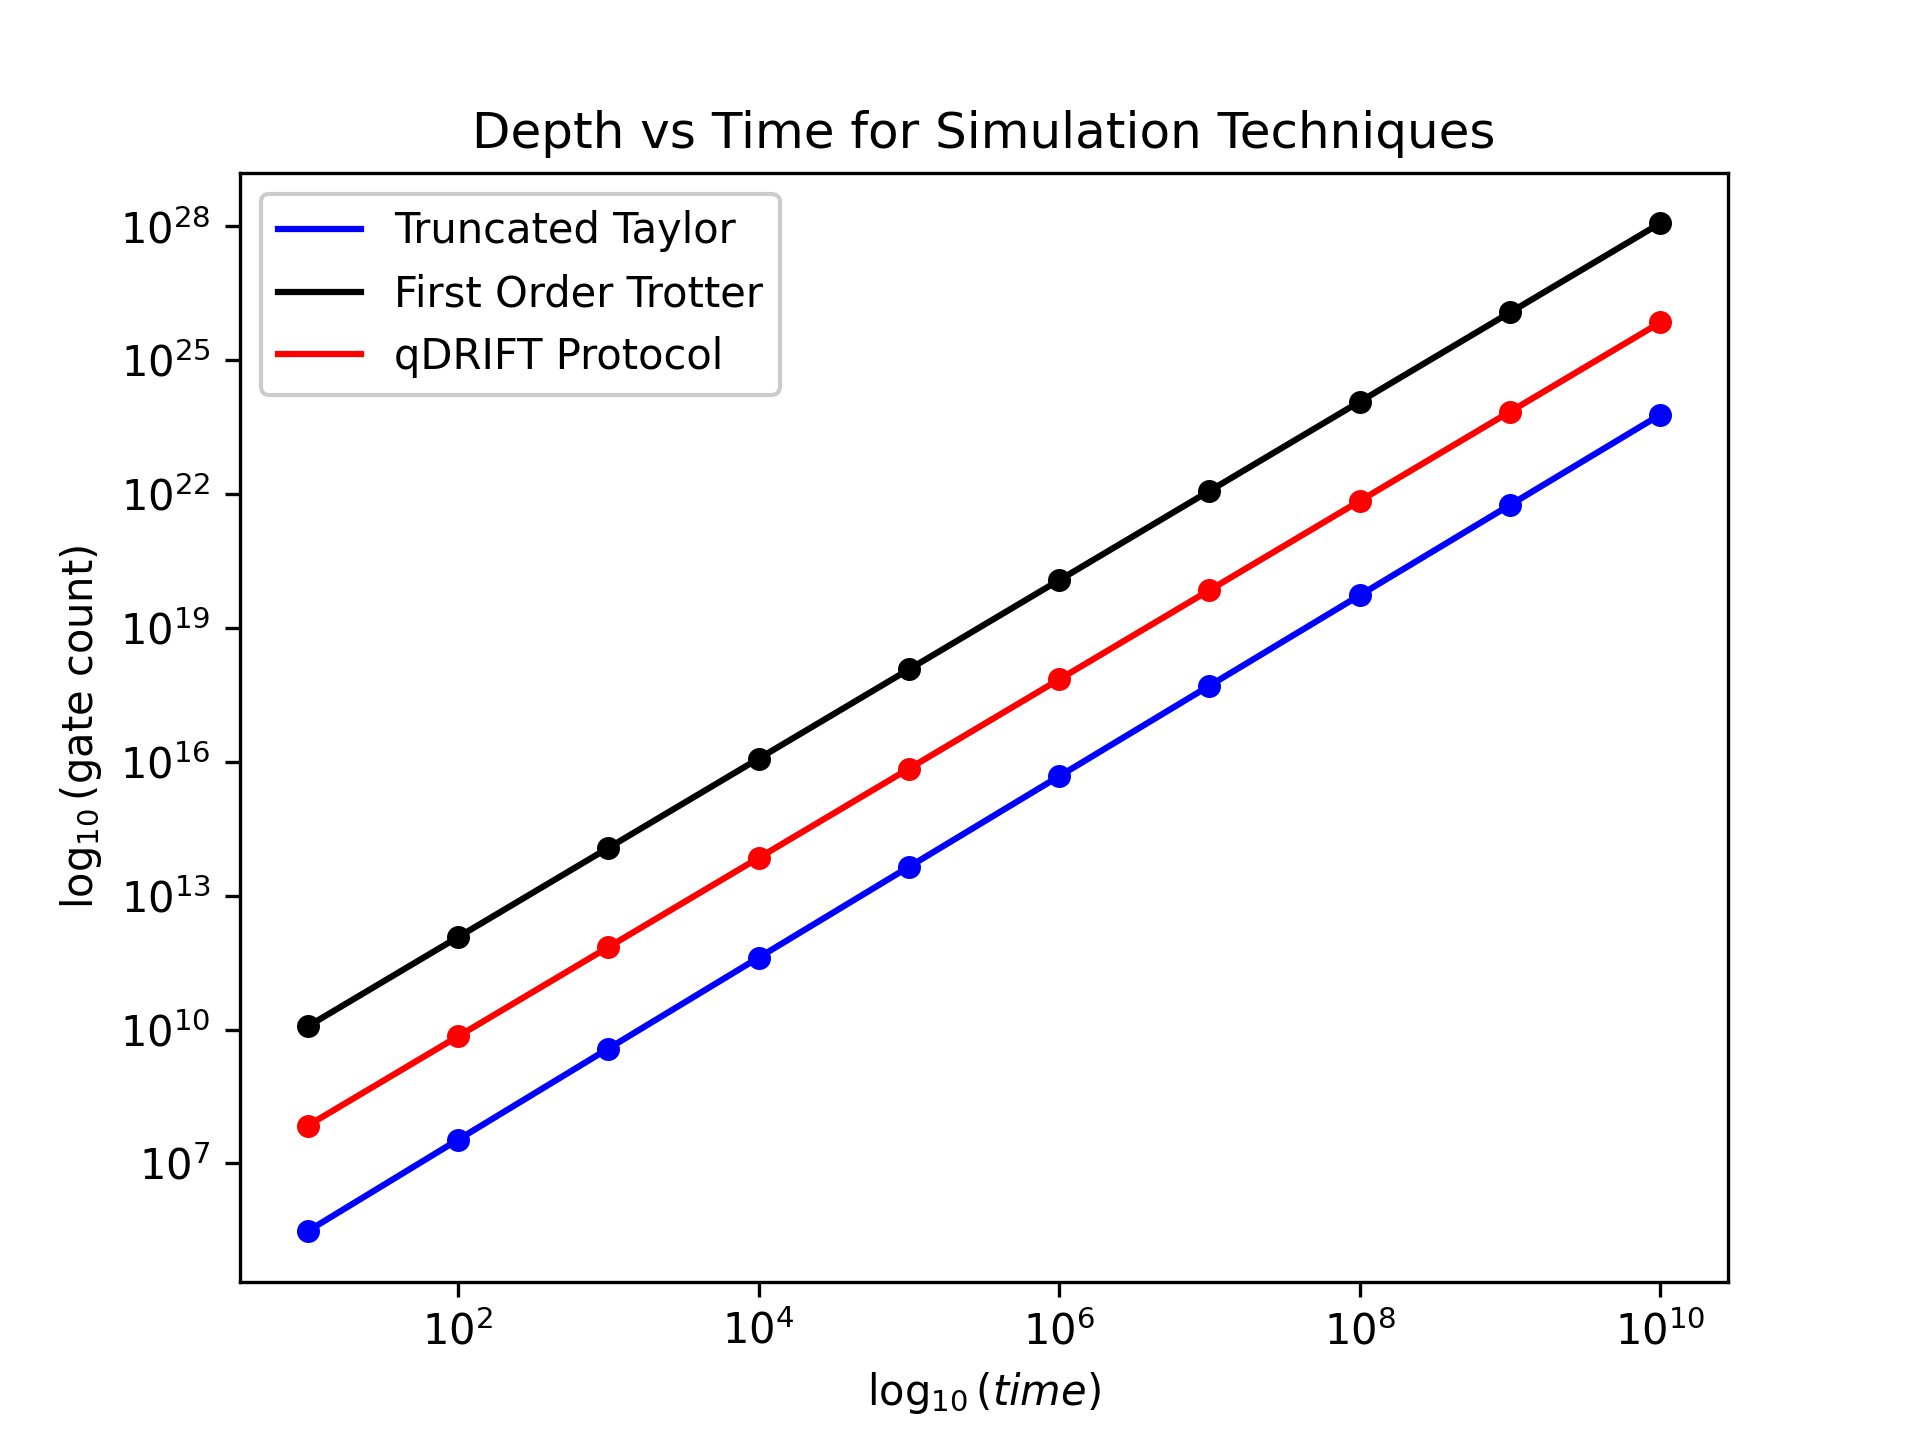
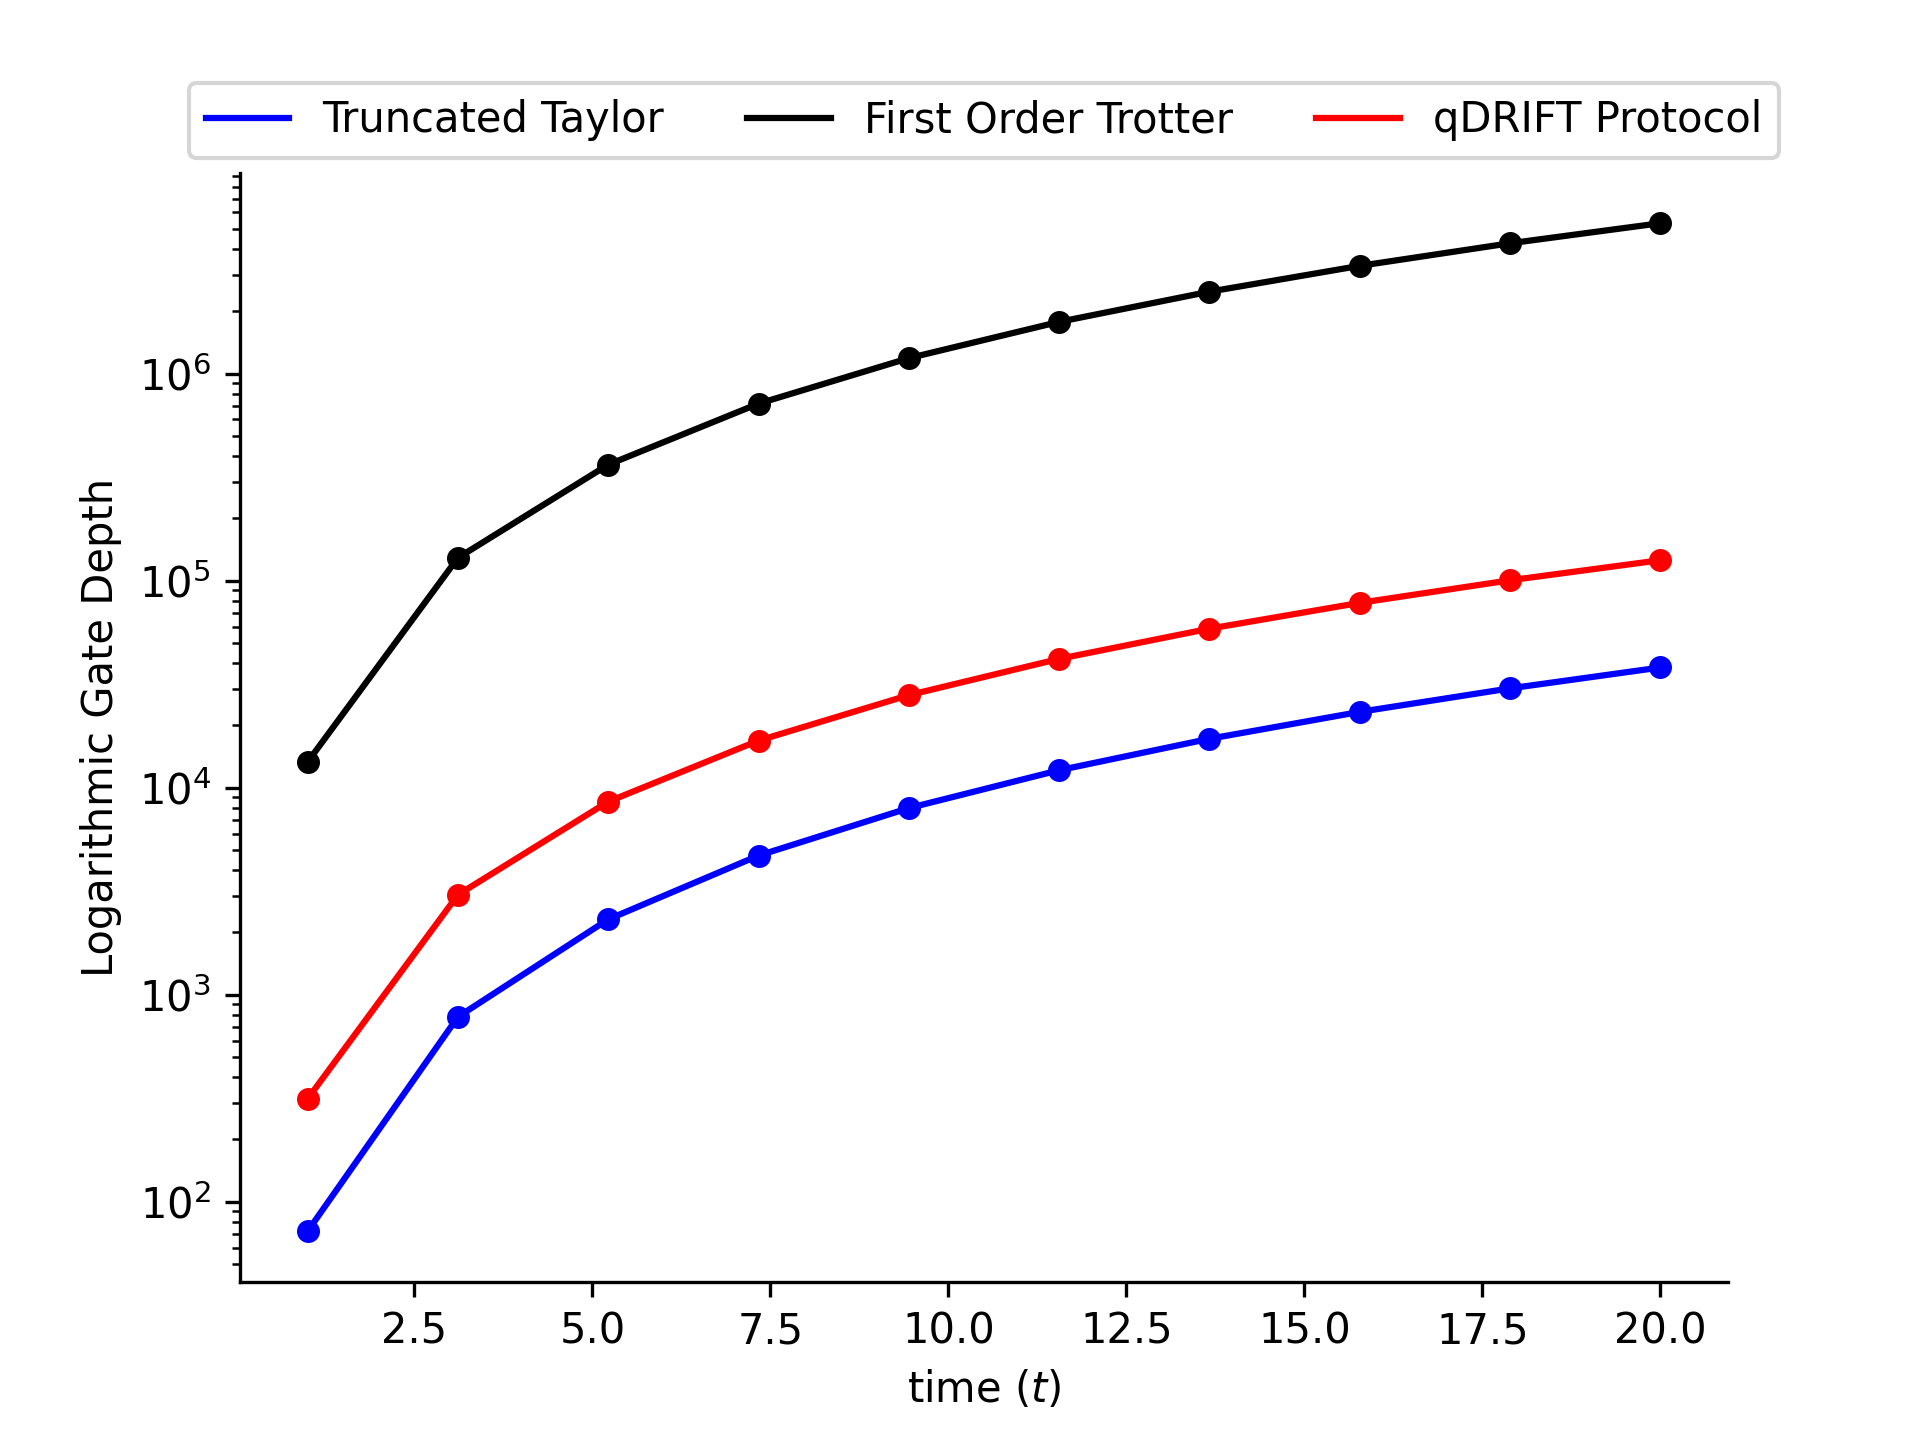
gate depth vs simulation time

diff --git a/ising/benchmark/gate_time.py b/ising/benchmark/gate_time.py
@@ -19,7 +19,7 @@ def plot_gate_error(qubit, h_val, error, point_count, obs_norm, start_time, end_
         "qdrift": {"color": "red", "label": "qDRIFT Protocol"},
     }
 
-    time_points = [10**x for x in np.linspace(start_time, end_time, point_count)]
+    time_points = [x for x in np.linspace(start_time, end_time, point_count)]
     ham = parametrized_ising(qubit, h_val)
 
     taylor, trotter, qdrift = [], [], []
@@ -42,17 +42,19 @@ def plot_gate_error(qubit, h_val, error, point_count, obs_norm, start_time, end_
 
         sns.scatterplot(y=result, x=time_points, ax=ax, color=config["color"])
 
-        # ax.text(error_points[-1] * 2, results["taylor"][-1] * 1.6, f"t={time}")
+    # SETTING: AXIS VISIBILITY
+    ax.spines["top"].set_visible(False)
+    ax.spines["right"].set_visible(False)
 
     # ax.invert_xaxis()
-    ax.set_xscale("log")
+    # ax.set_xscale("log")
     ax.set_yscale("log")
-    ax.set_xlabel(r"$\log_{10}(time)$")
-    ax.set_ylabel(r"$\log_{10}(\text{gate count})$")
+    ax.set_xlabel(r"time ($t$)")
+    ax.set_ylabel(r"Logarithmic Gate Depth")
 
-    ax.set_title("Depth vs Time for Simulation Techniques")
+    # ax.set_title("Depth vs Time for Simulation Techniques")
 
-    ax.legend(loc="upper left", framealpha=1)
+    plt.legend(loc="upper center", bbox_to_anchor=(0.5, 1.10), ncol=3, fontsize=10)
     # plt.legend()
     diagram_name = "plots/benchmark/gate_time.png"
     print(f"Saving diagram at:{diagram_name}")
@@ -60,12 +62,12 @@ def plot_gate_error(qubit, h_val, error, point_count, obs_norm, start_time, end_
 
 
 if __name__ == "__main__":
-    qubit = 25
+    qubit = 6
     h_val = 0.1
-    start_time, end_time = 1, 10
+    start_time, end_time = 1, 20
     point_count = 10
     obs_norm = 1
-    error = 1e-3
+    error = 0.1
 
     plot_gate_error(
         qubit,
